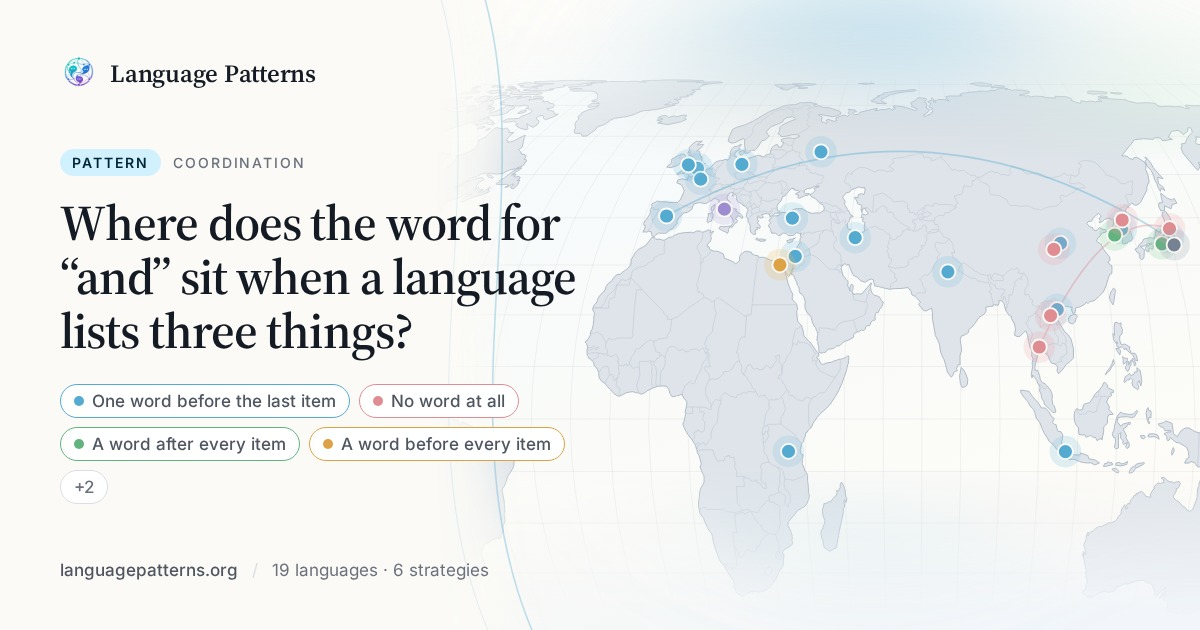
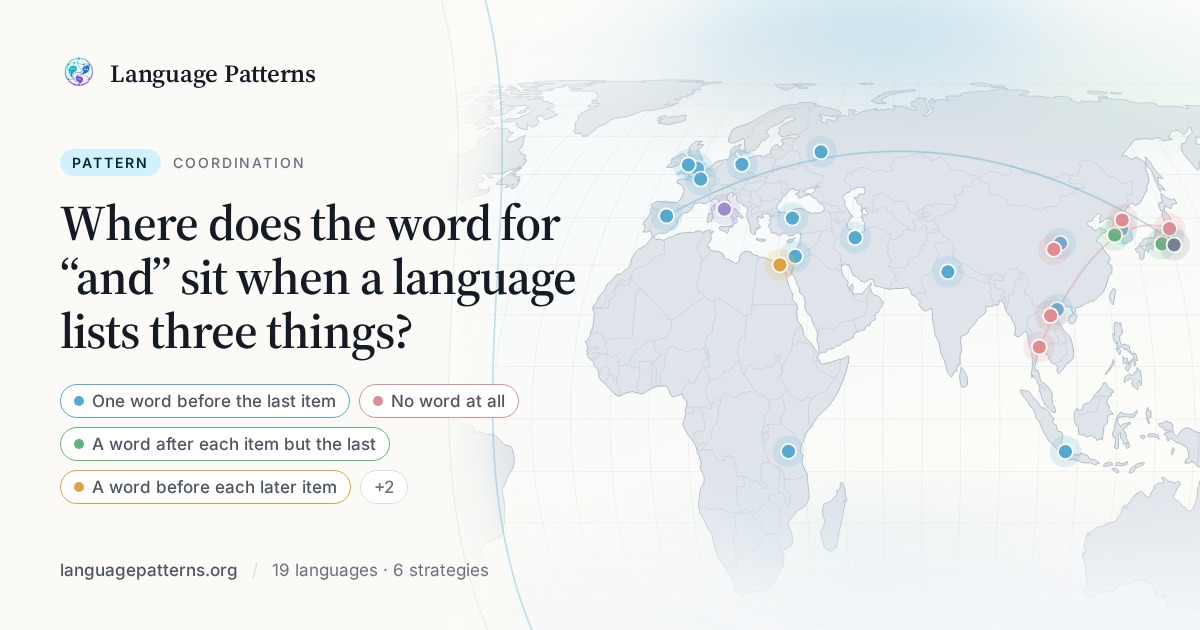
fix(coordination): name the item each repeated marker leaves bare

Changed region(s): [[0.0617, 0.6635, 0.4625, 0.8143]]

diff --git a/src/lib/data/patterns/coordination.ts b/src/lib/data/patterns/coordination.ts
@@ -26,7 +26,7 @@ export const coordination: Pattern = {
 		},
 		{
 			id: 'each-before',
-			label: 'A word before every item',
+			label: 'A word before each later item',
 			schematic: 'A wa-B wa-C',
 			description:
 				'Arabic puts wa- before every item after the first: خبز ولبن وبيض, bread, milk and eggs. The first item stands bare, and each later one carries the word.',
@@ -34,7 +34,7 @@ export const coordination: Pattern = {
 		},
 		{
 			id: 'each-after',
-			label: 'A word after every item',
+			label: 'A word after each item but the last',
 			schematic: 'AとBとC（と）',
 			description:
 				'Japanese and Korean use a particle that follows each item but the last: パンと牛乳と卵, 빵과 우유와 달걀. Japanese speech often adds a final と as well — パンと牛乳と卵と — and Korean lists frequently drop the particle and rely on commas.',
